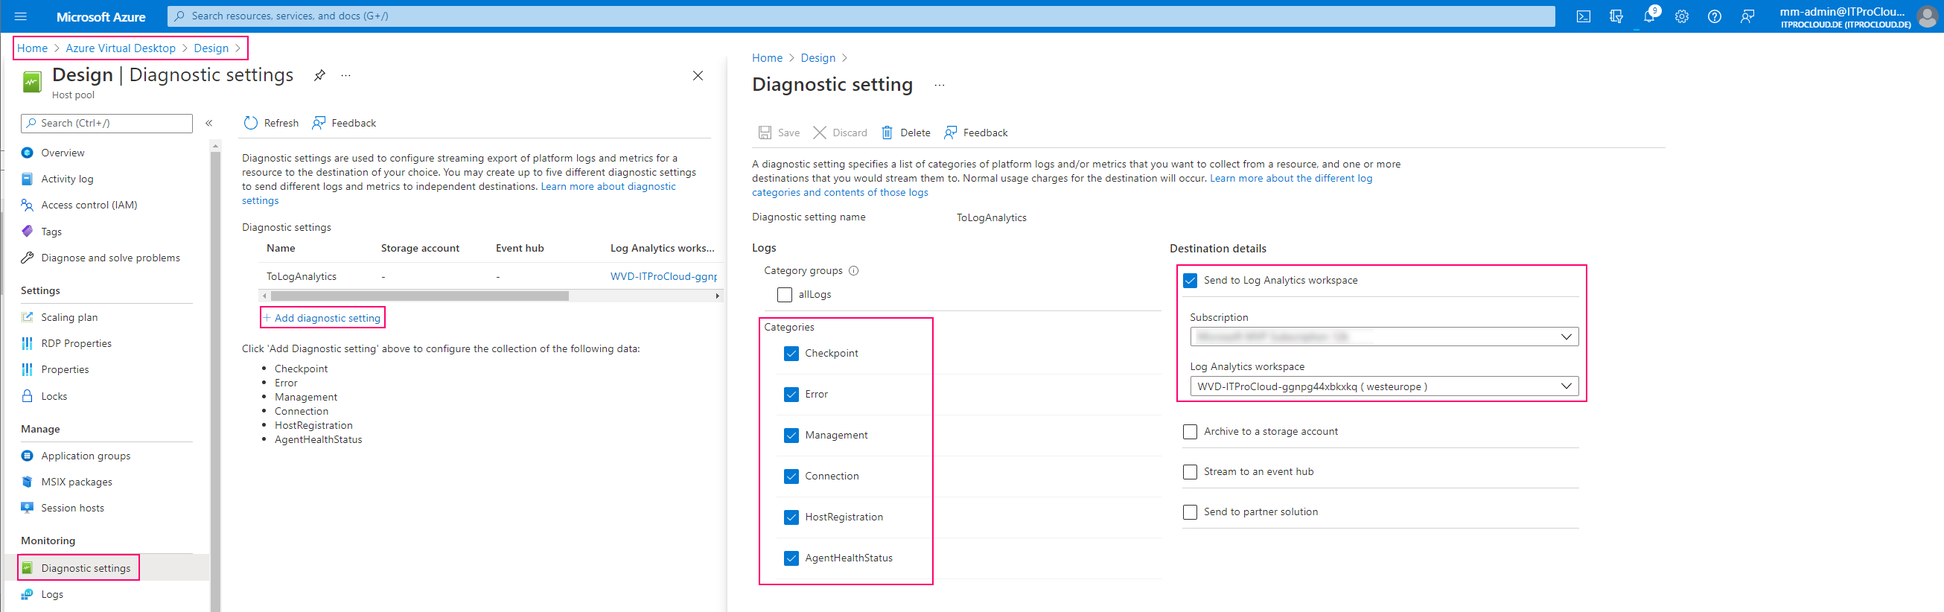
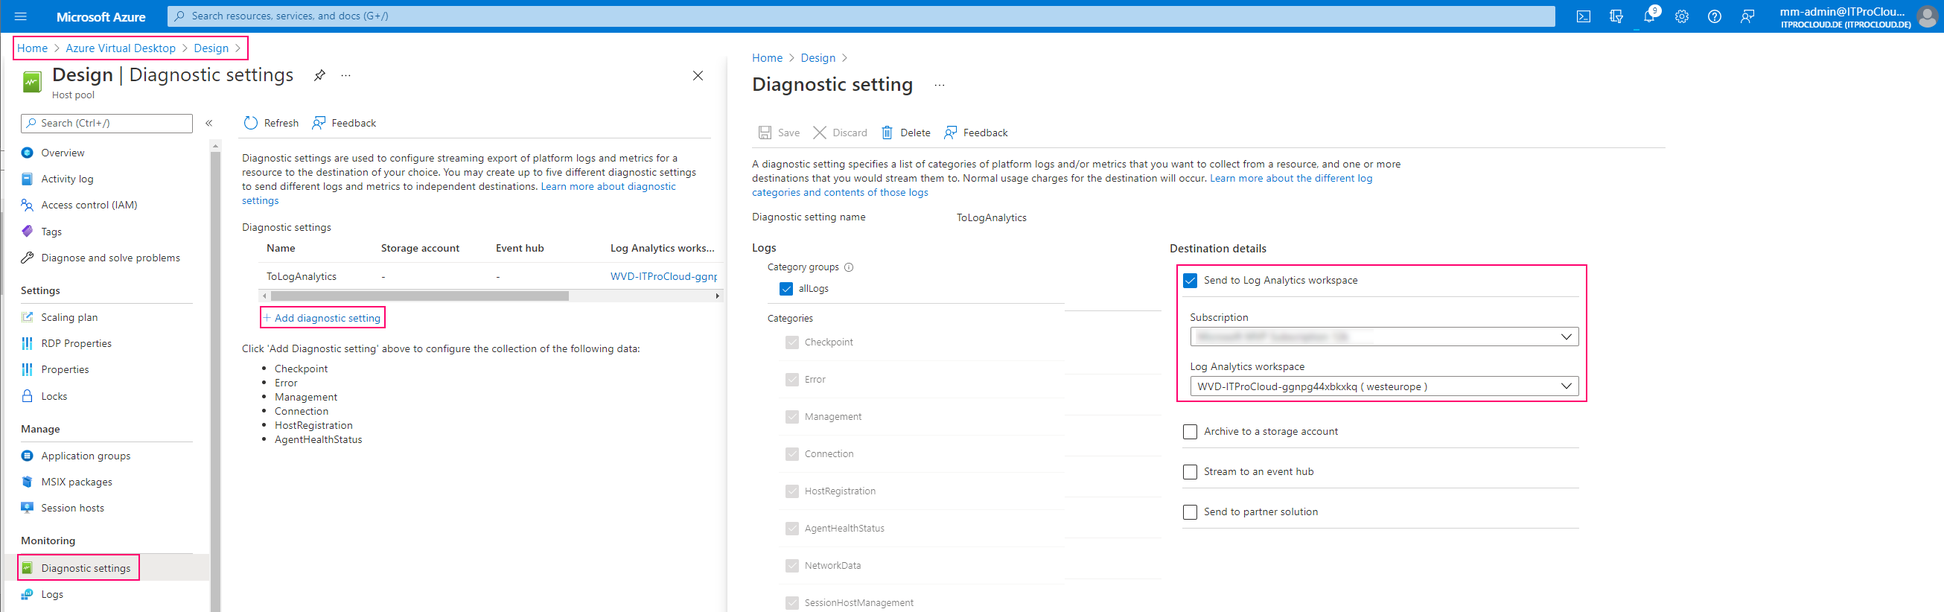
Automatic update of this blog site

Changed region(s): [[0.3723, 0.517, 0.4653, 0.9428], [0.4033, 0.9732, 0.4653, 1.0], [0.4033, 0.4258, 0.4343, 0.4866]]

diff --git a/AVD-Azure-Virtual-Desktop-Error-Drill-Down-Workbook/index.html b/AVD-Azure-Virtual-Desktop-Error-Drill-Down-Workbook/index.html
@@ -6,12 +6,12 @@
 
 <link rel="icon" href="/assets/images/logos/icon.png">
 
-<title>Debugging Azure Virtual Desktop errors/issues with an interactive Workbook | ITProCloud Blog</title>
+<title>Debugging Azure Virtual Desktop errors/issues/network latency and bandwidth with an interactive Workbook | ITProCloud Blog</title>
 
 <!-- Begin Jekyll SEO tag v2.7.1 -->
-<title>Debugging Azure Virtual Desktop errors/issues with an interactive Workbook | ITProCloud Blog</title>
+<title>Debugging Azure Virtual Desktop errors/issues/network latency and bandwidth with an interactive Workbook | ITProCloud Blog</title>
 <meta name="generator" content="Jekyll v4.2.0" />
-<meta property="og:title" content="Debugging Azure Virtual Desktop errors/issues with an interactive Workbook" />
+<meta property="og:title" content="Debugging Azure Virtual Desktop errors/issues/network latency and bandwidth with an interactive Workbook" />
 <meta name="author" content="mm" />
 <meta property="og:locale" content="en_US" />
 <meta name="description" content="Correctly configured, Azure Virtual Desktop sends diagnostic data to a log analytics workspace (Azure Monitor). There are several logs containing data about the events in the backend:" />
@@ -24,9 +24,9 @@
 <meta property="article:published_time" content="2022-02-17T00:00:00+01:00" />
 <meta name="twitter:card" content="summary_large_image" />
 <meta property="twitter:image" content="https://blog.itprocloud.de/assets/images/AVD-Monitoring-Workbook-Errors.png" />
-<meta property="twitter:title" content="Debugging Azure Virtual Desktop errors/issues with an interactive Workbook" />
+<meta property="twitter:title" content="Debugging Azure Virtual Desktop errors/issues/network latency and bandwidth with an interactive Workbook" />
 <script type="application/ld+json">
-{"@type":"BlogPosting","image":"https://blog.itprocloud.de/assets/images/AVD-Monitoring-Workbook-Errors.png","datePublished":"2022-02-17T00:00:00+01:00","mainEntityOfPage":{"@type":"WebPage","@id":"https://blog.itprocloud.de/AVD-Azure-Virtual-Desktop-Error-Drill-Down-Workbook/"},"publisher":{"@type":"Organization","logo":{"@type":"ImageObject","url":"https://blog.itprocloud.de/assets/images/logos/itpc-logo-bottom-text.png"},"name":"mm"},"url":"https://blog.itprocloud.de/AVD-Azure-Virtual-Desktop-Error-Drill-Down-Workbook/","author":{"@type":"Person","name":"mm"},"headline":"Debugging Azure Virtual Desktop errors/issues with an interactive Workbook","dateModified":"2022-02-17T00:00:00+01:00","description":"Correctly configured, Azure Virtual Desktop sends diagnostic data to a log analytics workspace (Azure Monitor). There are several logs containing data about the events in the backend:","@context":"https://schema.org"}</script>
+{"@type":"BlogPosting","image":"https://blog.itprocloud.de/assets/images/AVD-Monitoring-Workbook-Errors.png","datePublished":"2022-02-17T00:00:00+01:00","mainEntityOfPage":{"@type":"WebPage","@id":"https://blog.itprocloud.de/AVD-Azure-Virtual-Desktop-Error-Drill-Down-Workbook/"},"publisher":{"@type":"Organization","logo":{"@type":"ImageObject","url":"https://blog.itprocloud.de/assets/images/logos/itpc-logo-bottom-text.png"},"name":"mm"},"url":"https://blog.itprocloud.de/AVD-Azure-Virtual-Desktop-Error-Drill-Down-Workbook/","author":{"@type":"Person","name":"mm"},"headline":"Debugging Azure Virtual Desktop errors/issues/network latency and bandwidth with an interactive Workbook","dateModified":"2022-02-17T00:00:00+01:00","description":"Correctly configured, Azure Virtual Desktop sends diagnostic data to a log analytics workspace (Azure Monitor). There are several logs containing data about the events in the backend:","@context":"https://schema.org"}</script>
 <!-- End Jekyll SEO tag -->
 
 
@@ -334,7 +334,7 @@
 <div class="main-content">
     <section>
     <div class="section-title">
-        <h2><span>Debugging Azure Virtual Desktop errors/issues with an interactive Workbook</span></h2>
+        <h2><span>Debugging Azure Virtual Desktop errors/issues/network latency and bandwidth with an interactive Workbook</span></h2>
     </div>
 
     <div class="article-post">
@@ -377,16 +377,21 @@
 <td>WVDCheckpoints</td>
 <td>Detailed information related to logins, errors, …</td>
 </tr>
+<tr>
+<td>WVDConnectionNetworkData</td>
+<td>Network information (bandwidth and RTT)</td>
+</tr>
 </tbody>
 </table>
 <p>To get the logs, configure at least the host pool to send log information to a log analytics workspace. You can do this on a host pool level -&gt; Diagnostic settings -&gt; Add diagnostic settings -&gt; Select all Logs and target a log analytics workspace.</p>
 <p><img src="../assets/images/Avd-Error-Monitoring-01.png" alt="" /></p>
-<p>Alternatively, you can use <a href="https://blog.itprocloud.de/Windows-Virtual-Desktop-Admin/">WVDAdmin</a> to do that:</p>
+<p>Alternatively, you can use <a href="https://blog.itprocloud.de/Windows-Virtual-Desktop-Admin/">WVDAdmin</a> to do that (use version 1.7.25 or higher):</p>
 <p><img src="../assets/images/Avd-Error-Monitoring-02.png" alt="" /></p>
 <p>It will take a while before you can see the first data. The data can be queried with the KUSTO language or analyzed with custom workbooks. I prepared a workbook to dig into the data. Most visualizations are interactive. So you can drill down by selecting users, networks, agent versions, and more.</p>
 <p><img src="../assets/images/AVD-Monitoring-Workbook-Errors.png" alt="" /></p>
+<p><img src="../assets/images/Avd-Error-Monitoring-13.png" alt="" /></p>
 <p>You can install the workbook directly as a template into your subscription: <a href="https://portal.azure.com/#create/Microsoft.Template/uri/https%3A%2F%2Fblog.itprocloud.de%2Fassets%2Ffiles%2FAzureDeployments%2FWorkbook-AVD-Error-Logging.json">Install the workbook</a></p>
-<p>After a while, the workbook is visible as a new template in Log Analytics -&gt; Workbooks.</p>
+<p>After a while, the workbook is visible as a new template in: <strong>Log Analytics -&gt; Workbooks -&gt; Azure Virtual Desktop -&gt; AVD - Deep-Insights</strong></p>
 <p>You can select the time frame and host pool from the drop-down list. The other drop-down lists are optional. Please ensure that you have included the essential errors from the error selector. Remember that not all errors are making issues (e.g., “<em>ConnectionFailedClientDisconnected</em>” occurs if a session goes in the disconnected mode while the users close its notebook).</p>
 <p>Please let me know if you have ideas to extend the workbook.</p>
 <table>
@@ -406,7 +411,7 @@
 <tr>
 <td>1.2</td>
 <td>02/17/2022</td>
-<td>Include RTT and bandwidth (right now, host pool must be in the validation environment and diagnostic data must include <strong>NetworkData</strong>); see <a href="https://techcommunity.microsoft.com/t5/azure-virtual-desktop/collect-and-query-network-data-for-azure-virtual-desktop/m-p/3140397">https://techcommunity.microsoft.com/t5/azure-virtual-desktop/collect-and-query-network-data-for-azure-virtual-desktop/m-p/3140397</a></td>
+<td>Include RTT and bandwidth (right now, host pool must be in the validation environment and diagnostic data must include <strong>NetworkData</strong>); see <a href="https://techcommunity.microsoft.com/t5/azure-virtual-desktop/collect-and-query-network-data-for-azure-virtual-desktop/m-p/3140397">https://techcommunity.microsoft.com/t5/azure-virtual-desktop/collect-and-query-network-data-for-azure-virtual-desktop/m-p/3140397</a> <br /><br />Name changed to AVD - Deep-Insights</td>
 </tr>
 </tbody>
 </table>
@@ -449,16 +454,21 @@
 <td>WVDCheckpoints</td>
 <td>Detailed information related to logins, errors, …</td>
 </tr>
+<tr>
+<td>WVDConnectionNetworkData</td>
+<td>Network information (bandwidth and RTT)</td>
+</tr>
 </tbody>
 </table>
 <p>To get the logs, configure at least the host pool to send log information to a log analytics workspace. You can do this on a host pool level -&gt; Diagnostic settings -&gt; Add diagnostic settings -&gt; Select all Logs and target a log analytics workspace.</p>
 <p><img src="../assets/images/Avd-Error-Monitoring-01.png" alt="" /></p>
-<p>Alternatively, you can use <a href="https://blog.itprocloud.de/Windows-Virtual-Desktop-Admin/">WVDAdmin</a> to do that:</p>
+<p>Alternatively, you can use <a href="https://blog.itprocloud.de/Windows-Virtual-Desktop-Admin/">WVDAdmin</a> to do that (use version 1.7.25 or higher):</p>
 <p><img src="../assets/images/Avd-Error-Monitoring-02.png" alt="" /></p>
 <p>It will take a while before you can see the first data. The data can be queried with the KUSTO language or analyzed with custom workbooks. I prepared a workbook to dig into the data. Most visualizations are interactive. So you can drill down by selecting users, networks, agent versions, and more.</p>
 <p><img src="../assets/images/AVD-Monitoring-Workbook-Errors.png" alt="" /></p>
+<p><img src="../assets/images/Avd-Error-Monitoring-13.png" alt="" /></p>
 <p>You can install the workbook directly as a template into your subscription: <a href="https://portal.azure.com/#create/Microsoft.Template/uri/https%3A%2F%2Fblog.itprocloud.de%2Fassets%2Ffiles%2FAzureDeployments%2FWorkbook-AVD-Error-Logging.json">Install the workbook</a></p>
-<p>After a while, the workbook is visible as a new template in Log Analytics -&gt; Workbooks.</p>
+<p>After a while, the workbook is visible as a new template in: <strong>Log Analytics -&gt; Workbooks -&gt; Azure Virtual Desktop -&gt; AVD - Deep-Insights</strong></p>
 <p>You can select the time frame and host pool from the drop-down list. The other drop-down lists are optional. Please ensure that you have included the essential errors from the error selector. Remember that not all errors are making issues (e.g., “<em>ConnectionFailedClientDisconnected</em>” occurs if a session goes in the disconnected mode while the users close its notebook).</p>
 <p>Please let me know if you have ideas to extend the workbook.</p>
 <table>
@@ -478,7 +488,7 @@
 <tr>
 <td>1.2</td>
 <td>02/17/2022</td>
-<td>Include RTT and bandwidth (right now, host pool must be in the validation environment and diagnostic data must include <strong>NetworkData</strong>); see <a href="https://techcommunity.microsoft.com/t5/azure-virtual-desktop/collect-and-query-network-data-for-azure-virtual-desktop/m-p/3140397">https://techcommunity.microsoft.com/t5/azure-virtual-desktop/collect-and-query-network-data-for-azure-virtual-desktop/m-p/3140397</a></td>
+<td>Include RTT and bandwidth (right now, host pool must be in the validation environment and diagnostic data must include <strong>NetworkData</strong>); see <a href="https://techcommunity.microsoft.com/t5/azure-virtual-desktop/collect-and-query-network-data-for-azure-virtual-desktop/m-p/3140397">https://techcommunity.microsoft.com/t5/azure-virtual-desktop/collect-and-query-network-data-for-azure-virtual-desktop/m-p/3140397</a> <br /><br />Name changed to AVD - Deep-Insights</td>
 </tr>
 </tbody>
 </table>

diff --git a/assets/js/lunrsearchengine.js b/assets/js/lunrsearchengine.js
@@ -67,8 +67,8 @@ var documents = [{
     }, {
     "id": 13,
     "url": "https://blog.itprocloud.de/AVD-Azure-Virtual-Desktop-Error-Drill-Down-Workbook/",
-    "title": "Debugging Azure Virtual Desktop errors/issues with an interactive Workbook",
-    "body": "2022/02/17 - Correctly configured, Azure Virtual Desktop sends diagnostic data to a log analytics workspace (Azure Monitor). There are several logs containing data about the events in the backend: Log TypeNoteWVDAgentHealthStatusDetails about the session hostsWVDConnectionsAll about connections from a user to a session hostWVDErrorsError message from different sources (client, RDGateway, Loadbalancer, …)WVDFeedsLog about clients downloading information about the AVD resourcesWVDHostRegistrationsLogs if a host tries to register to a host poolWVDManagementLog about administrative tasksWVDCheckpointsDetailed information related to logins, errors, …To get the logs, configure at least the host pool to send log information to a log analytics workspace. You can do this on a host pool level -&gt; Diagnostic settings -&gt; Add diagnostic settings -&gt; Select all Logs and target a log analytics workspace.  Alternatively, you can use WVDAdmin to do that: It will take a while before you can see the first data. The data can be queried with the KUSTO language or analyzed with custom workbooks. I prepared a workbook to dig into the data. Most visualizations are interactive. So you can drill down by selecting users, networks, agent versions, and more.  You can install the workbook directly as a template into your subscription: Install the workbook After a while, the workbook is visible as a new template in Log Analytics -&gt; Workbooks. You can select the time frame and host pool from the drop-down list. The other drop-down lists are optional. Please ensure that you have included the essential errors from the error selector. Remember that not all errors are making issues (e. g. , “ConnectionFailedClientDisconnected” occurs if a session goes in the disconnected mode while the users close its notebook). Please let me know if you have ideas to extend the workbook. VersionDateNote1. 101/28/2022Initial1. 202/17/2022Include RTT and bandwidth (right now, host pool must be in the validation environment and diagnostic data must include NetworkData); see https://techcommunity. microsoft. com/t5/azure-virtual-desktop/collect-and-query-network-data-for-azure-virtual-desktop/m-p/3140397 "
+    "title": "Debugging Azure Virtual Desktop errors/issues/network latency and bandwidth with an interactive Workbook",
+    "body": "2022/02/17 - Correctly configured, Azure Virtual Desktop sends diagnostic data to a log analytics workspace (Azure Monitor). There are several logs containing data about the events in the backend: Log TypeNoteWVDAgentHealthStatusDetails about the session hostsWVDConnectionsAll about connections from a user to a session hostWVDErrorsError message from different sources (client, RDGateway, Loadbalancer, …)WVDFeedsLog about clients downloading information about the AVD resourcesWVDHostRegistrationsLogs if a host tries to register to a host poolWVDManagementLog about administrative tasksWVDCheckpointsDetailed information related to logins, errors, …WVDConnectionNetworkDataNetwork information (bandwidth and RTT)To get the logs, configure at least the host pool to send log information to a log analytics workspace. You can do this on a host pool level -&gt; Diagnostic settings -&gt; Add diagnostic settings -&gt; Select all Logs and target a log analytics workspace.  Alternatively, you can use WVDAdmin to do that (use version 1. 7. 25 or higher): It will take a while before you can see the first data. The data can be queried with the KUSTO language or analyzed with custom workbooks. I prepared a workbook to dig into the data. Most visualizations are interactive. So you can drill down by selecting users, networks, agent versions, and more.  You can install the workbook directly as a template into your subscription: Install the workbook After a while, the workbook is visible as a new template in: Log Analytics -&gt; Workbooks -&gt; Azure Virtual Desktop -&gt; AVD - Deep-Insights You can select the time frame and host pool from the drop-down list. The other drop-down lists are optional. Please ensure that you have included the essential errors from the error selector. Remember that not all errors are making issues (e. g. , “ConnectionFailedClientDisconnected” occurs if a session goes in the disconnected mode while the users close its notebook). Please let me know if you have ideas to extend the workbook. VersionDateNote1. 101/28/2022Initial1. 202/17/2022Include RTT and bandwidth (right now, host pool must be in the validation environment and diagnostic data must include NetworkData); see https://techcommunity. microsoft. com/t5/azure-virtual-desktop/collect-and-query-network-data-for-azure-virtual-desktop/m-p/3140397 Name changed to AVD - Deep-Insights "
     }, {
     "id": 14,
     "url": "https://blog.itprocloud.de/Windows-Virtual-Desktop-Admin/",

diff --git a/categories.html b/categories.html
@@ -951,7 +951,7 @@
                 
 
                     
-                        <img class="img-fluid" src="/assets/images/AVD-Monitoring-Workbook-Errors.png" alt="Debugging Azure Virtual Desktop errors/issues with an interactive Workbook"> 
+                        <img class="img-fluid" src="/assets/images/AVD-Monitoring-Workbook-Errors.png" alt="Debugging Azure Virtual Desktop errors/issues/network latency and bandwidth with an interactive Workbook"> 
                     
 
                 
@@ -959,7 +959,7 @@
         </div>
         <div class="card-body">
             <h2 class="card-title">
-                <a class="text-dark" href="/AVD-Azure-Virtual-Desktop-Error-Drill-Down-Workbook/">Debugging Azure Virtual Desktop errors/issues with an interactive Workbook</a>
+                <a class="text-dark" href="/AVD-Azure-Virtual-Desktop-Error-Drill-Down-Workbook/">Debugging Azure Virtual Desktop errors/issues/network latency and bandwidth with an interactive Workbook</a>
                 
             </h2>
             <h4 class="card-text">Correctly configured, Azure Virtual Desktop sends diagnostic data to a log analytics workspace (Azure Monitor). There are several logs containing data about the events in the backend:
@@ -1441,7 +1441,7 @@
                 
 
                     
-                        <img class="img-fluid" src="/assets/images/AVD-Monitoring-Workbook-Errors.png" alt="Debugging Azure Virtual Desktop errors/issues with an interactive Workbook"> 
+                        <img class="img-fluid" src="/assets/images/AVD-Monitoring-Workbook-Errors.png" alt="Debugging Azure Virtual Desktop errors/issues/network latency and bandwidth with an interactive Workbook"> 
                     
 
                 
@@ -1449,7 +1449,7 @@
         </div>
         <div class="card-body">
             <h2 class="card-title">
-                <a class="text-dark" href="/AVD-Azure-Virtual-Desktop-Error-Drill-Down-Workbook/">Debugging Azure Virtual Desktop errors/issues with an interactive Workbook</a>
+                <a class="text-dark" href="/AVD-Azure-Virtual-Desktop-Error-Drill-Down-Workbook/">Debugging Azure Virtual Desktop errors/issues/network latency and bandwidth with an interactive Workbook</a>
                 
             </h2>
             <h4 class="card-text">Correctly configured, Azure Virtual Desktop sends diagnostic data to a log analytics workspace (Azure Monitor). There are several logs containing data about the events in the backend:
@@ -2368,7 +2368,7 @@
                 
 
                     
-                        <img class="img-fluid" src="/assets/images/AVD-Monitoring-Workbook-Errors.png" alt="Debugging Azure Virtual Desktop errors/issues with an interactive Workbook"> 
+                        <img class="img-fluid" src="/assets/images/AVD-Monitoring-Workbook-Errors.png" alt="Debugging Azure Virtual Desktop errors/issues/network latency and bandwidth with an interactive Workbook"> 
                     
 
                 
@@ -2376,7 +2376,7 @@
         </div>
         <div class="card-body">
             <h2 class="card-title">
-                <a class="text-dark" href="/AVD-Azure-Virtual-Desktop-Error-Drill-Down-Workbook/">Debugging Azure Virtual Desktop errors/issues with an interactive Workbook</a>
+                <a class="text-dark" href="/AVD-Azure-Virtual-Desktop-Error-Drill-Down-Workbook/">Debugging Azure Virtual Desktop errors/issues/network latency and bandwidth with an interactive Workbook</a>
                 
             </h2>
             <h4 class="card-text">Correctly configured, Azure Virtual Desktop sends diagnostic data to a log analytics workspace (Azure Monitor). There are several logs containing data about the events in the backend:
@@ -4416,7 +4416,7 @@
                 
 
                     
-                        <img class="img-fluid" src="/assets/images/AVD-Monitoring-Workbook-Errors.png" alt="Debugging Azure Virtual Desktop errors/issues with an interactive Workbook"> 
+                        <img class="img-fluid" src="/assets/images/AVD-Monitoring-Workbook-Errors.png" alt="Debugging Azure Virtual Desktop errors/issues/network latency and bandwidth with an interactive Workbook"> 
                     
 
                 
@@ -4424,7 +4424,7 @@
         </div>
         <div class="card-body">
             <h2 class="card-title">
-                <a class="text-dark" href="/AVD-Azure-Virtual-Desktop-Error-Drill-Down-Workbook/">Debugging Azure Virtual Desktop errors/issues with an interactive Workbook</a>
+                <a class="text-dark" href="/AVD-Azure-Virtual-Desktop-Error-Drill-Down-Workbook/">Debugging Azure Virtual Desktop errors/issues/network latency and bandwidth with an interactive Workbook</a>
                 
             </h2>
             <h4 class="card-text">Correctly configured, Azure Virtual Desktop sends diagnostic data to a log analytics workspace (Azure Monitor). There are several logs containing data about the events in the backend:

diff --git a/category/azure-monitor/index.html b/category/azure-monitor/index.html
@@ -347,7 +347,7 @@
                 
 
                     
-                        <img class="img-fluid" src="/assets/images/AVD-Monitoring-Workbook-Errors.png" alt="Debugging Azure Virtual Desktop errors/issues with an interactive Workbook"> 
+                        <img class="img-fluid" src="/assets/images/AVD-Monitoring-Workbook-Errors.png" alt="Debugging Azure Virtual Desktop errors/issues/network latency and bandwidth with an interactive Workbook"> 
                     
 
                 
@@ -355,7 +355,7 @@
         </div>
         <div class="card-body">
             <h2 class="card-title">
-                <a class="text-dark" href="/AVD-Azure-Virtual-Desktop-Error-Drill-Down-Workbook/">Debugging Azure Virtual Desktop errors/issues with an interactive Workbook</a>
+                <a class="text-dark" href="/AVD-Azure-Virtual-Desktop-Error-Drill-Down-Workbook/">Debugging Azure Virtual Desktop errors/issues/network latency and bandwidth with an interactive Workbook</a>
                 
             </h2>
             <h4 class="card-text">Correctly configured, Azure Virtual Desktop sends diagnostic data to a log analytics workspace (Azure Monitor). There are several logs containing data about the events in the backend:

diff --git a/category/azure-virtual-desktop/index.html b/category/azure-virtual-desktop/index.html
@@ -347,7 +347,7 @@
                 
 
                     
-                        <img class="img-fluid" src="/assets/images/AVD-Monitoring-Workbook-Errors.png" alt="Debugging Azure Virtual Desktop errors/issues with an interactive Workbook"> 
+                        <img class="img-fluid" src="/assets/images/AVD-Monitoring-Workbook-Errors.png" alt="Debugging Azure Virtual Desktop errors/issues/network latency and bandwidth with an interactive Workbook"> 
                     
 
                 
@@ -355,7 +355,7 @@
         </div>
         <div class="card-body">
             <h2 class="card-title">
-                <a class="text-dark" href="/AVD-Azure-Virtual-Desktop-Error-Drill-Down-Workbook/">Debugging Azure Virtual Desktop errors/issues with an interactive Workbook</a>
+                <a class="text-dark" href="/AVD-Azure-Virtual-Desktop-Error-Drill-Down-Workbook/">Debugging Azure Virtual Desktop errors/issues/network latency and bandwidth with an interactive Workbook</a>
                 
             </h2>
             <h4 class="card-text">Correctly configured, Azure Virtual Desktop sends diagnostic data to a log analytics workspace (Azure Monitor). There are several logs containing data about the events in the backend:

diff --git a/category/log-analytics/index.html b/category/log-analytics/index.html
@@ -347,7 +347,7 @@
                 
 
                     
-                        <img class="img-fluid" src="/assets/images/AVD-Monitoring-Workbook-Errors.png" alt="Debugging Azure Virtual Desktop errors/issues with an interactive Workbook"> 
+                        <img class="img-fluid" src="/assets/images/AVD-Monitoring-Workbook-Errors.png" alt="Debugging Azure Virtual Desktop errors/issues/network latency and bandwidth with an interactive Workbook"> 
                     
 
                 
@@ -355,7 +355,7 @@
         </div>
         <div class="card-body">
             <h2 class="card-title">
-                <a class="text-dark" href="/AVD-Azure-Virtual-Desktop-Error-Drill-Down-Workbook/">Debugging Azure Virtual Desktop errors/issues with an interactive Workbook</a>
+                <a class="text-dark" href="/AVD-Azure-Virtual-Desktop-Error-Drill-Down-Workbook/">Debugging Azure Virtual Desktop errors/issues/network latency and bandwidth with an interactive Workbook</a>
                 
             </h2>
             <h4 class="card-text">Correctly configured, Azure Virtual Desktop sends diagnostic data to a log analytics workspace (Azure Monitor). There are several logs containing data about the events in the backend:

diff --git a/category/windows-virtual-desktop/index.html b/category/windows-virtual-desktop/index.html
@@ -347,7 +347,7 @@
                 
 
                     
-                        <img class="img-fluid" src="/assets/images/AVD-Monitoring-Workbook-Errors.png" alt="Debugging Azure Virtual Desktop errors/issues with an interactive Workbook"> 
+                        <img class="img-fluid" src="/assets/images/AVD-Monitoring-Workbook-Errors.png" alt="Debugging Azure Virtual Desktop errors/issues/network latency and bandwidth with an interactive Workbook"> 
                     
 
                 
@@ -355,7 +355,7 @@
         </div>
         <div class="card-body">
             <h2 class="card-title">
-                <a class="text-dark" href="/AVD-Azure-Virtual-Desktop-Error-Drill-Down-Workbook/">Debugging Azure Virtual Desktop errors/issues with an interactive Workbook</a>
+                <a class="text-dark" href="/AVD-Azure-Virtual-Desktop-Error-Drill-Down-Workbook/">Debugging Azure Virtual Desktop errors/issues/network latency and bandwidth with an interactive Workbook</a>
                 
             </h2>
             <h4 class="card-text">Correctly configured, Azure Virtual Desktop sends diagnostic data to a log analytics workspace (Azure Monitor). There are several logs containing data about the events in the backend:

diff --git a/index.html b/index.html
@@ -710,7 +710,7 @@
                 
 
                     
-                        <img class="img-fluid" src="/assets/images/AVD-Monitoring-Workbook-Errors.png" alt="Debugging Azure Virtual Desktop errors/issues with an interactive Workbook"> 
+                        <img class="img-fluid" src="/assets/images/AVD-Monitoring-Workbook-Errors.png" alt="Debugging Azure Virtual Desktop errors/issues/network latency and bandwidth with an interactive Workbook"> 
                     
 
                 
@@ -718,7 +718,7 @@
         </div>
         <div class="card-body">
             <h2 class="card-title">
-                <a class="text-dark" href="/AVD-Azure-Virtual-Desktop-Error-Drill-Down-Workbook/">Debugging Azure Virtual Desktop errors/issues with an interactive Workbook</a>
+                <a class="text-dark" href="/AVD-Azure-Virtual-Desktop-Error-Drill-Down-Workbook/">Debugging Azure Virtual Desktop errors/issues/network latency and bandwidth with an interactive Workbook</a>
                 
             </h2>
             <h4 class="card-text">Correctly configured, Azure Virtual Desktop sends diagnostic data to a log analytics workspace (Azure Monitor). There are several logs containing data about the events in the backend:
